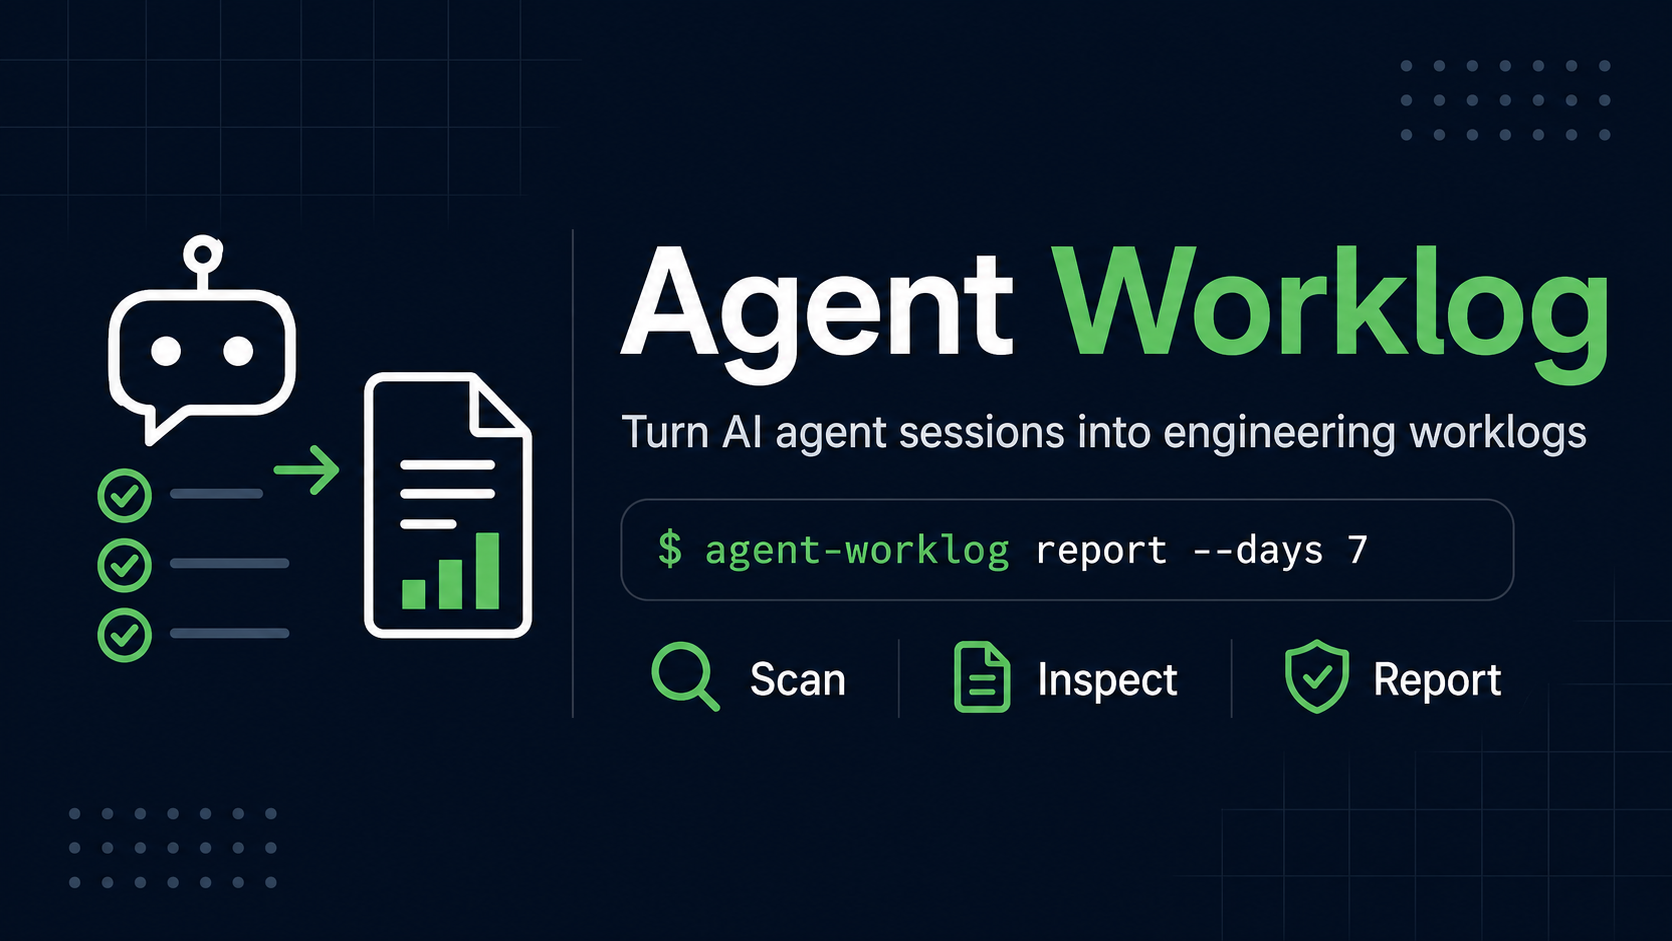
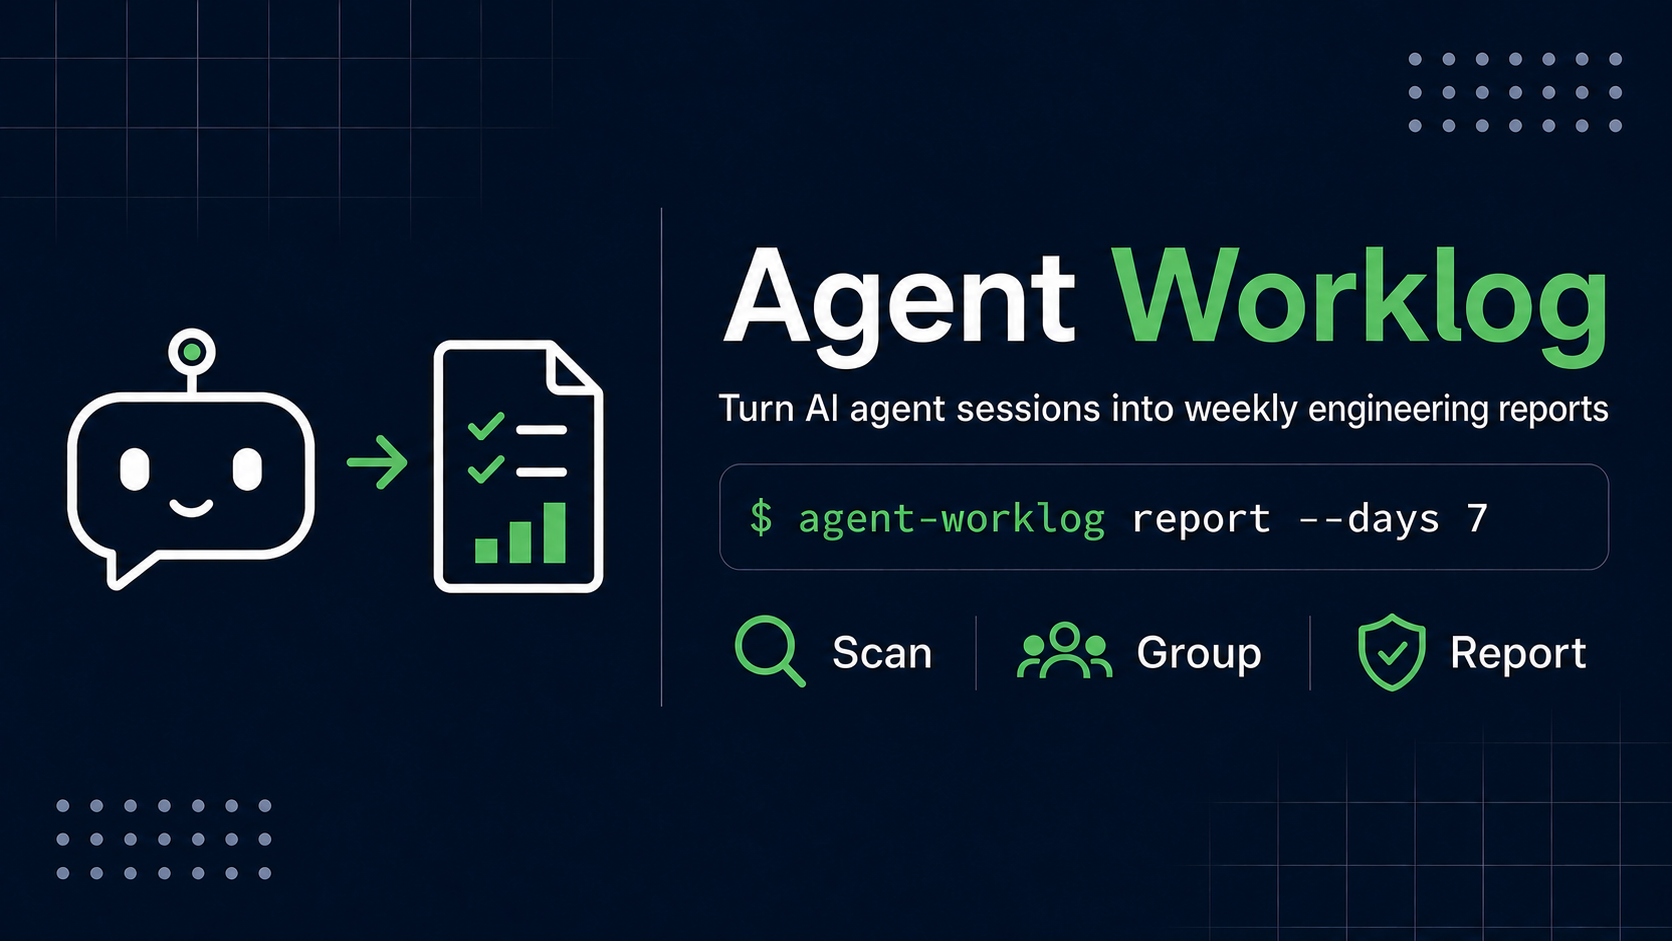
Address README review feedback

diff --git a/README.md b/README.md
@@ -1,9 +1,10 @@
 # Agent Worklog
 
 Agent Worklog turns coding-agent sessions into weekly engineering reports. It saves
-engineers time and makes it easier to share progress with managers.
+engineers time by reducing the manual work needed to prepare weekly progress reports
+for managers.
 
-![Agent Worklog overview](docs/assets/agent-worklog-overview.png)
+![Agent sessions are grouped into weekly engineering reports](https://github.com/mike840609/agent-worklog/raw/refs/heads/main/docs/assets/agent-worklog-overview.png)
 
 ## Capabilities
 
@@ -15,10 +16,10 @@ Agent Worklog currently works with OpenCode and can:
 - Group Git worktrees that belong to the same repository.
 - Keep child sessions linked to the correct repository.
 - Include source activity IDs and confidence levels as supporting information.
-- Remove common secrets before creating a report or sending data to an optional LLM.
+- Check session information for common secret patterns before creating a report or
+  sending data to an optional LLM.
 - Continue when one session cannot be exported and add a warning to the report.
-- Write Markdown reports safely with permissions that allow only the owner to read
-  them.
+- On POSIX systems, write reports with owner-only `0600` permissions.
 
 ## Requirements
 
@@ -103,9 +104,9 @@ Agent Worklog checks each session separately to decide which repository it belon
 It uses the following information in order:
 
 1. The Git `origin` remote.
-2. A protected ID based on the shared Git directory.
+2. An ID created from a hash of the shared Git directory.
 3. The OpenCode project ID.
-4. A protected ID based on the working directory.
+4. An ID created from a hash of the working directory.
 5. A separate unknown ID for the session.
 
 SSH and HTTPS addresses for the same repository are treated as the same repository.
@@ -128,11 +129,14 @@ export OPENAI_API_KEY="..."
 agent-worklog report --period last-week
 ```
 
-The request contains organized information with secrets removed. It does not contain
-raw transcripts or raw session details. If the service times out, returns an HTTP 429
-or 5xx error, or returns invalid data, Agent Worklog tries once more. If the second
-request fails, it creates a summary without the LLM. Use `--no-llm` to keep report
-generation on your computer.
+LLM requests contain selected work information rather than full transcripts. Agent
+Worklog checks session information for common secret patterns before building each
+request. The request may still include repository and branch names, session and activity
+IDs, goals, commands, and filenames.
+
+If the service times out, returns an HTTP 429 or 5xx error, or returns invalid data,
+Agent Worklog tries once more. If the second request fails, it creates a summary without
+the LLM. Use `--no-llm` to keep report generation on your computer.
 
 ## Output and file handling
 
@@ -174,19 +178,22 @@ export AGENT_WORKLOG_LLM__BASE_URL="https://api.openai.com/v1/"
 export AGENT_WORKLOG_LLM__ENABLED="false"
 ```
 
-See [Configuration](docs/configuration.md) for a complete list of settings.
+See the
+[configuration guide](https://github.com/mike840609/agent-worklog/blob/main/docs/configuration.md)
+for a complete list of settings.
 
 ## Privacy
 
-Agent Worklog requests OpenCode exports with `--sanitize`. It also removes common
-secrets from all parts of the data before creating a report or making an optional LLM
-request.
+Agent Worklog requests OpenCode exports with `--sanitize`. It also checks selected
+session information for common secret patterns before creating a report or making an
+optional LLM request. Pattern checks cannot find every possible secret.
 
 Reports may still contain private goals, filenames, commands, and work descriptions.
 Always review a report before sharing it.
 
-See [Privacy and security](docs/privacy.md) for more details about data safety and
-current limits.
+See
+[Privacy and security](https://github.com/mike840609/agent-worklog/blob/main/docs/privacy.md)
+for more details about data safety and current limits.
 
 ## Failure handling and exit codes
 
@@ -200,7 +207,7 @@ creating an empty report.
 | 2 | Invalid command options |
 | 3 | Settings error |
 | 4 | No matching activity |
-| 5 | OpenCode error |
+| 5 | OpenCode or Git dependency error |
 | 7 | Report file error |
 
 ## Current support and limits
@@ -225,7 +232,9 @@ uv run pyright
 uv build
 ```
 
-See [Releasing Agent Worklog](docs/releasing.md) for release instructions.
+See
+[Releasing Agent Worklog](https://github.com/mike840609/agent-worklog/blob/main/docs/releasing.md)
+for release instructions.
 
 ## License
 
